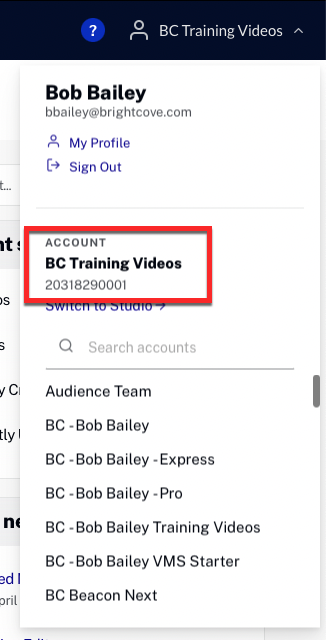
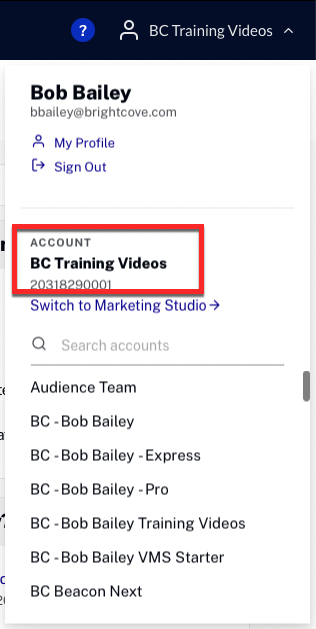
add info for marketing studio

diff --git a/_site/get-started/getting-started-video-cloud-studio.html b/_site/get-started/getting-started-video-cloud-studio.html
@@ -2487,7 +2487,8 @@ function doGTranslate(lang_pair) {if(lang_pair.value)lang_pair=lang_pair.value;i
     <p>If you have access to multiple Video Cloud accounts, the Video Cloud account selector can be used to select the Video Cloud account you want to access. To switch accounts, click on the <strong>Profile</strong> icon in the top right corner of Video Cloud Studio. The current account name appears in the header and above the account list.</p>
     <aside class="bcls-aside bcls-aside--information">Note: Depending on the width of your browser, the account name may not be displayed in the header.</aside>
     <figure class="bcls-figure"><img class="bcls-image--no-border" alt="" src="/assets/images/get-started/node14494-select-account2.png" /></figure>
-    <p>Click the <strong>My Profile</strong> link to update your user information and password. For more information, see <a href="/admin/managing-profile-information.html">Managing Profile Information</a>.</p>
+    <p>Click the <strong>My Profile</strong> link to update your user information and password. For more information, see <a href="/admin/managing-profile-information.html">Managing Profile Information</a>. </p>
+    <p>Click <strong>Switch to Marketing Studio</strong> to use the  Marketing Studio interface. For  information on Marketing Studio, see the <a href="https://mstudio.support.brightcove.com">Marketing Studio documentation</a>.</p>
   </section>
   <section class="bcls-section">
     <h2 id="modules">Accessing modules</h2>

diff --git a/get-started/getting-started-video-cloud-studio.html b/get-started/getting-started-video-cloud-studio.html
@@ -31,7 +31,8 @@ parent: Getting Started
     <p>If you have access to multiple Video Cloud accounts, the Video Cloud account selector can be used to select the Video Cloud account you want to access. To switch accounts, click on the <strong>Profile</strong> icon in the top right corner of Video Cloud Studio. The current account name appears in the header and above the account list.</p>
     <aside class="bcls-aside bcls-aside--information">Note: Depending on the width of your browser, the account name may not be displayed in the header.</aside>
     <figure class="bcls-figure"><img class="bcls-image--no-border" alt="" src="/assets/images/get-started/node14494-select-account2.png" /></figure>
-    <p>Click the <strong>My Profile</strong> link to update your user information and password. For more information, see <a href="/admin/managing-profile-information.html">Managing Profile Information</a>.</p>
+    <p>Click the <strong>My Profile</strong> link to update your user information and password. For more information, see <a href="/admin/managing-profile-information.html">Managing Profile Information</a>. </p>
+    <p>Click <strong>Switch to Marketing Studio</strong> to use the  Marketing Studio interface. For  information on Marketing Studio, see the <a href="https://mstudio.support.brightcove.com">Marketing Studio documentation</a>.</p>
   </section>
   <section class="bcls-section">
     <h2 id="modules">Accessing modules</h2>
